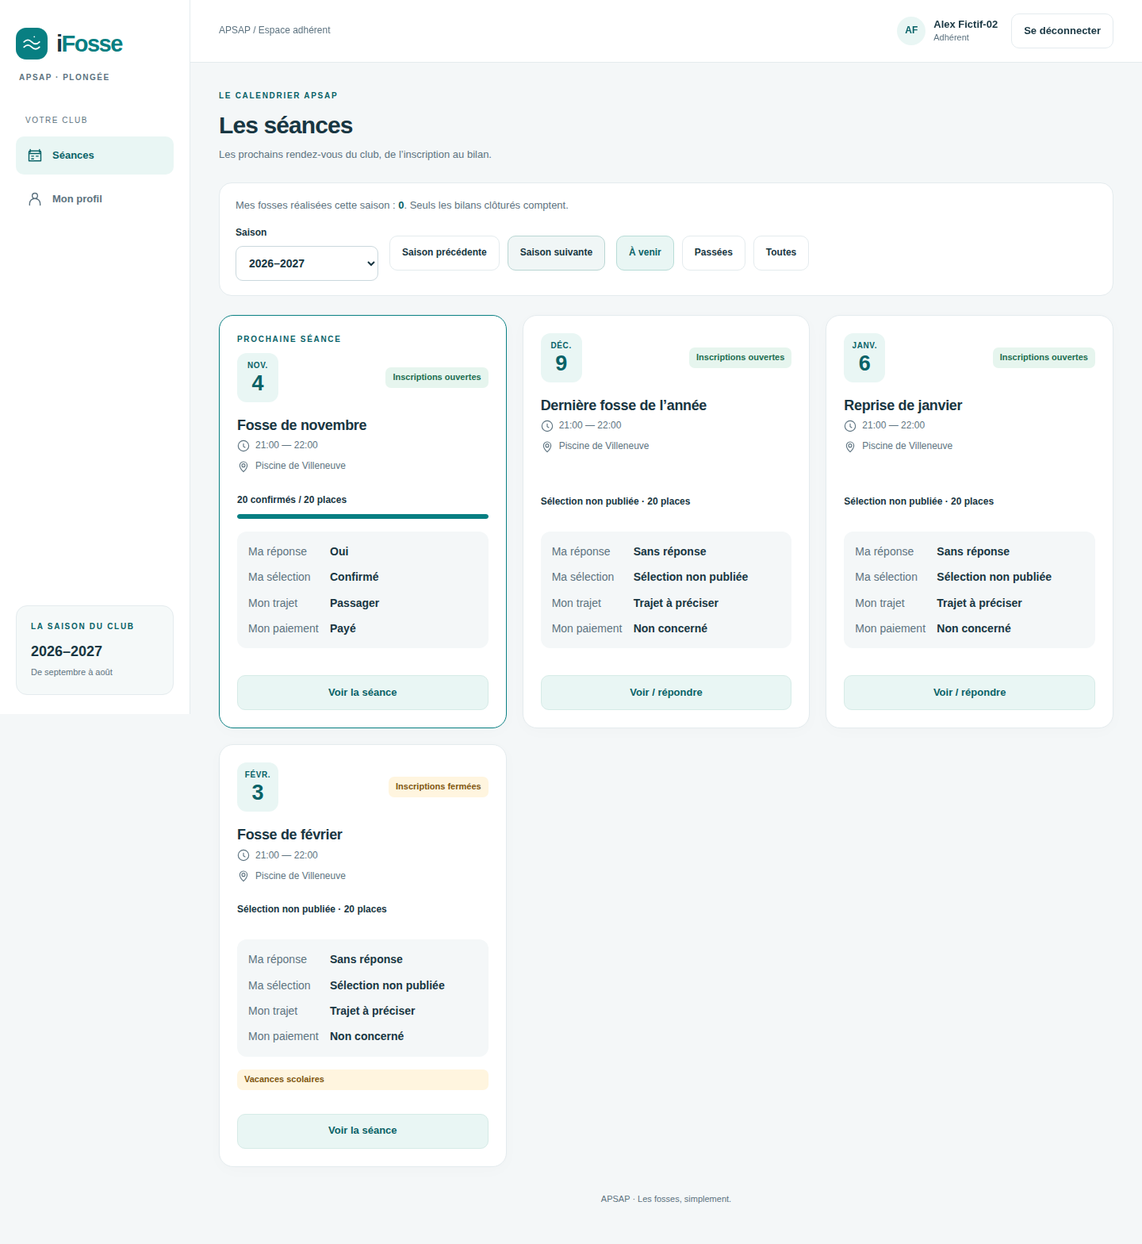
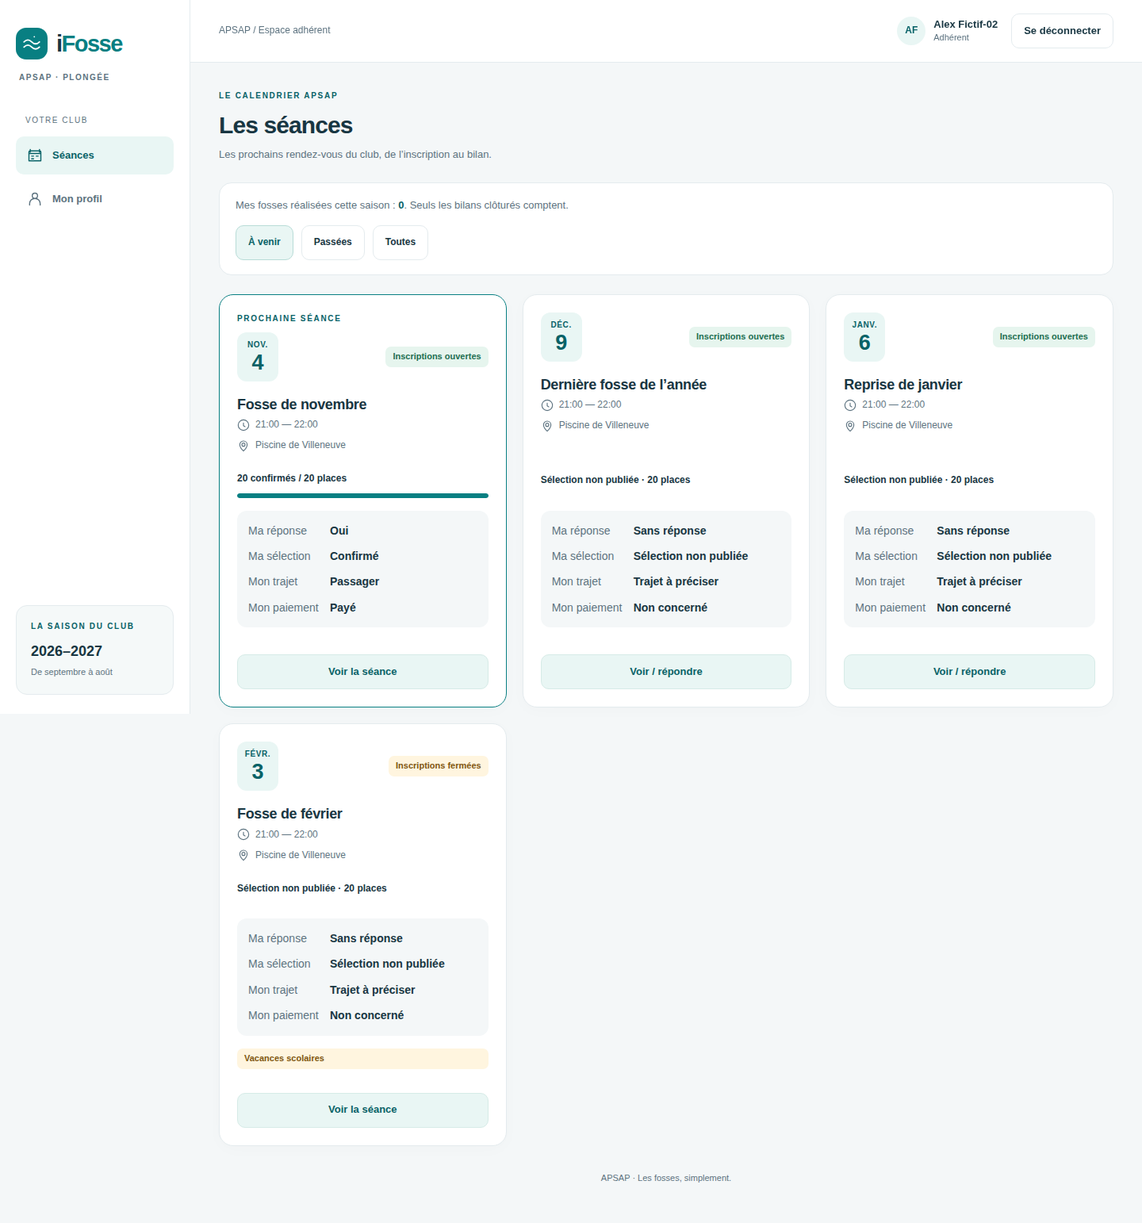
Remove season controls while preserving session history through period filters

diff --git a/src/features/sessions/Sessions.tsx b/src/features/sessions/Sessions.tsx
@@ -2,7 +2,7 @@ import { useCallback, useRef, useState } from 'react'
 import type { SupabaseClient } from '@supabase/supabase-js'
 import type { Database, Tables } from '../../lib/database.types'
 import type { Member } from '../auth/AuthGate'
-import { caciLabels, caciStatus, formatDate, seasonBounds, seasonOf, todayParis } from '../../lib/dates'
+import { caciLabels, caciStatus, formatDate, seasonOf, todayParis } from '../../lib/dates'
 import { SessionEditor } from './SessionEditor'
 import type { Session } from './SessionEditor'
 import { Selection } from '../selection/Selection'
@@ -97,7 +97,7 @@ export function SessionDetail({ client, member, session, onEdit, onBack, onChang
   </section>
 }
 export function Sessions({ client, member, refreshMember }: { client: SupabaseClient<Database>; member: Member; refreshMember?: () => Promise<void> }) {
-  const [season, setSeason] = useState(seasonOf(todayParis()))
+  const season = seasonOf(todayParis())
   const [counts, setCounts] = useState<Database['public']['Functions']['get_season_counts']['Returns']>([])
   const [filter, setFilter] = useState<CalendarFilter>('upcoming')
   const [entryTab, setEntryTab] = useState<SessionTab>('overview')
@@ -110,22 +110,25 @@ export function Sessions({ client, member, refreshMember }: { client: SupabaseCl
   const loadSequence = useRef(0)
   const load = useCallback(async () => {
     const request = ++loadSequence.current
-    const bounds = seasonBounds(season)
     try {
-      const [calendar, totals, occupancy] = await Promise.all([
-        client.from('sessions').select('*').gte('date', bounds.start).lt('date', bounds.end).order('date').order('start_time'),
-        client.rpc('get_season_counts', { p_start_year: season }),
-        client.rpc('get_session_card_summaries', { p_start_year: season }),
-      ])
-      const { data, error } = calendar
+      const calendar = await client.from('sessions').select('*').order('date').order('start_time')
       if (request !== loadSequence.current) return
-      const summary = Object.fromEntries((occupancy.data ?? []).map(row => [row.session_id, row]))
+      if (calendar.error) { setMessage('Actualisation du calendrier impossible. Les dernières données reçues sont conservées.'); return }
+      const years = [...new Set((calendar.data ?? []).map(row => seasonOf(row.date)))]
+      const [totals, ...projections] = await Promise.all([
+        client.rpc('get_season_counts', { p_start_year: season }),
+        ...years.map(year => client.rpc('get_session_card_summaries', { p_start_year: year })),
+      ])
+      if (request !== loadSequence.current) return
+      const data = calendar.data
+      const occupancy = { data: projections.flatMap(result => result.data ?? []), error: projections.find(result => result.error)?.error }
+      const summary = Object.fromEntries(occupancy.data.map(row => [row.session_id, row]))
       const personalFields = ['my_rsvp', 'my_selection_state', 'my_transport_mode', 'my_transport_provisional', 'my_payment_status'] as const
       const oldProjection = !occupancy.error && (occupancy.data ?? []).some(row => personalFields.some(field => row[field] === undefined))
       if (oldProjection || occupancy.error?.code === 'PGRST202') {
         setMessage('Le calendrier nécessite une mise à jour du serveur. Contactez l’administrateur du club. Les dernières données reçues sont conservées.'); return
       }
-      if (error || totals.error || occupancy.error || (data ?? []).some(row => !summary[row.id] || !validSummary(summary[row.id]))) {
+      if (totals.error || occupancy.error || (data ?? []).some(row => !summary[row.id] || !validSummary(summary[row.id]))) {
         setMessage('Actualisation du calendrier impossible. Les dernières données reçues sont conservées.'); return
       }
       setCounts(totals.data ?? [])
@@ -139,14 +142,10 @@ export function Sessions({ client, member, refreshMember }: { client: SupabaseCl
   const visible = calendarSessions(sessions, filter, todayParis())
   const next = nextSession(sessions, todayParis())
   async function saved(id: string | null) {
-    if (id) {
-      const result = await client.from('sessions').select('date').eq('id', id).single()
-      if (result.data) setSeason(seasonOf(result.data.date))
-    }
     await load(); setEntryTab('overview'); setSelected(id); setEditing(false)
   }
-  return <><section className="calendar-heading" hidden={editing || !!session}><PageHeading eyebrow="Le calendrier APSAP" title="Les séances" actions={member.role !== 'member' && <button className="primary" onClick={() => { setSelected(null); setEditing(true) }}>Nouvelle séance</button>}><p>Les prochains rendez-vous du club, de l’inscription au bilan.</p></PageHeading><div className="calendar-tools"><p>Mes fosses réalisées cette saison : <strong>{loadedSeason === season ? counts.find(row => row.member_id === member.id)?.completed_count ?? 0 : '…'}</strong>. Seuls les bilans clôturés comptent.</p><label>Saison<select value={season} onChange={event => { setSeason(Number(event.target.value)); setSelected(null); setEditing(false) }}>{Array.from(new Set([season, seasonOf(todayParis()) - 1, seasonOf(todayParis()), ...sessions.map(item => seasonOf(item.date))])).sort((a, b) => b - a).map(year => <option key={year} value={year}>{year}–{year + 1}</option>)}</select></label><div className="actions"><button onClick={() => { setSeason(season - 1); setSelected(null); setEditing(false) }}>Saison précédente</button><button onClick={() => { setSeason(season + 1); setSelected(null); setEditing(false) }}>Saison suivante</button></div><div className="actions mt" role="group" aria-label="Période des séances">{([['upcoming', 'À venir'], ['past', 'Passées'], ['all', 'Toutes']] as const).map(([value, label]) => <button key={value} className="secondary" aria-pressed={filter === value} onClick={() => setFilter(value)}>{label}</button>)}</div>{message && <div role="alert"><p>{message}</p><button className="secondary" onClick={() => void load()}>Réessayer</button></div>}</div></section>
-    {editing && selected && !session ? <section className="card"><p>Cette séance n’est plus disponible dans le calendrier.</p><button onClick={() => { setSelected(null); setEditing(false) }}>Retour au calendrier</button></section> : editing ? <SessionEditor key={selected ?? 'new'} client={client} session={session} onSaved={saved} onCancel={() => setEditing(false)} /> : session ? <SessionDetail key={session.id} client={client} member={member} session={session} onEdit={() => setEditing(true)} onBack={() => { setSelected(null); window.scrollTo({ top: 0 }) }} onChanged={load} refreshMember={refreshMember} initialTab={entryTab} /> : loadedSeason !== season ? <div className="empty-state" role="status">{message ? 'Calendrier indisponible. Réessayez pour charger cette saison.' : 'Chargement du calendrier…'}</div> : <div className="session-grid">{visible.map(item => {
+  return <><section className="calendar-heading" hidden={editing || !!session}><PageHeading eyebrow="Le calendrier APSAP" title="Les séances" actions={member.role !== 'member' && <button className="primary" onClick={() => { setSelected(null); setEditing(true) }}>Nouvelle séance</button>}><p>Les prochains rendez-vous du club, de l’inscription au bilan.</p></PageHeading><div className="calendar-tools"><p>Mes fosses réalisées cette saison : <strong>{loadedSeason === season ? counts.find(row => row.member_id === member.id)?.completed_count ?? 0 : '…'}</strong>. Seuls les bilans clôturés comptent.</p><div className="actions mt" role="group" aria-label="Période des séances">{([['upcoming', 'À venir'], ['past', 'Passées'], ['all', 'Toutes']] as const).map(([value, label]) => <button key={value} className="secondary" aria-pressed={filter === value} onClick={() => setFilter(value)}>{label}</button>)}</div>{message && <div role="alert"><p>{message}</p><button className="secondary" onClick={() => void load()}>Réessayer</button></div>}</div></section>
+    {editing && selected && !session ? <section className="card"><p>Cette séance n’est plus disponible dans le calendrier.</p><button onClick={() => { setSelected(null); setEditing(false) }}>Retour au calendrier</button></section> : editing ? <SessionEditor key={selected ?? 'new'} client={client} session={session} onSaved={saved} onCancel={() => setEditing(false)} /> : session ? <SessionDetail key={session.id} client={client} member={member} session={session} onEdit={() => setEditing(true)} onBack={() => { setSelected(null); window.scrollTo({ top: 0 }) }} onChanged={load} refreshMember={refreshMember} initialTab={entryTab} /> : loadedSeason !== season ? <div className="empty-state" role="status">{message ? 'Calendrier indisponible. Réessayez pour charger les séances.' : 'Chargement du calendrier…'}</div> : <div className="session-grid">{visible.map(item => {
       const summary = summaries[item.id]
       const action = calendarAction(item, summary)
       return <article className={`card session-card${item.id === next ? ' next-session' : ''}`} key={item.id}>
@@ -158,6 +157,6 @@ export function Sessions({ client, member, refreshMember }: { client: SupabaseCl
         {item.school_holiday && <p className="badge">Vacances scolaires</p>}
         <button className="session-open" onClick={() => { setEntryTab(action.tab); setSelected(item.id); window.scrollTo({ top: 0 }) }} aria-label={`${action.label} · séance du ${formatDate(item.date)}`}>{action.label}</button>
       </article>
-    })}{!visible.length && <p className="empty-state">{filter === 'upcoming' ? 'Aucune séance à venir dans cette saison.' : filter === 'past' ? 'Aucune séance passée dans cette saison.' : 'Aucune séance dans cette saison.'}</p>}</div>}
+    })}{!visible.length && <p className="empty-state">{filter === 'upcoming' ? 'Aucune séance à venir.' : filter === 'past' ? 'Aucune séance passée.' : 'Aucune séance.'}</p>}</div>}
   </>
 }

diff --git a/src/features/sessions/Sessions.test.tsx b/src/features/sessions/Sessions.test.tsx
@@ -5,17 +5,17 @@ import type { Database } from '../../lib/database.types'
 import type { Member } from '../auth/AuthGate'
 import type { Session } from './SessionEditor'
 import { Sessions } from './Sessions'
-import { formatDate, todayParis } from '../../lib/dates'
+import { formatDate, seasonOf, todayParis } from '../../lib/dates'
 import type { CardSummary } from './PublishedOccupancy'
 afterEach(cleanup)
 const member = { id: 'self', role: 'member' } as Member
 const sessions = Array.from({ length: 20 }, (_, index) => ({ id: `s${index}`, date: todayParis(), start_time: '20:00', end_time: '21:00', title: `Séance ${index}`, status: 'open', registration_open: true, capacity: 20 })) as Session[]
 const summaries: CardSummary[] = sessions.map(row => ({ session_id: row.id, capacity: 20, confirmed_count: 20, publication_version: 1, my_rsvp: 'yes', my_selection_state: 'selected', my_transport_mode: 'own', my_transport_provisional: false, my_payment_status: 'paid' }))
-function setup(initialFailure = false, cards = summaries, missingRpc = false) {
+function setup(initialFailure = false, cards = summaries, missingRpc = false, rows = sessions) {
   let fail = initialFailure
   let oldSchema = false
   const rpc = vi.fn(async (name: string) => ({ data: name === 'get_season_counts' ? [{ member_id: 'self', completed_count: 3 }] : oldSchema ? cards.map(row => ({ ...row, my_rsvp: undefined })) : cards, error: missingRpc && name === 'get_session_card_summaries' ? { code: 'PGRST202', message: 'not found' } : fail ? { message: 'offline' } : null }))
-  const query = { select: () => query, gte: () => query, lt: () => query, order: (field: string) => field === 'start_time' ? Promise.resolve({ data: sessions, error: null }) : query }
+  const query = { select: () => query, order: (field: string) => field === 'start_time' ? Promise.resolve({ data: rows, error: null }) : query }
   const from = vi.fn(() => query)
   const client = { from, rpc } as unknown as SupabaseClient<Database>
   render(<Sessions client={client} member={member} />)
@@ -34,7 +34,7 @@ it('loads twenty personal cards in one batched request, highlights once and defa
   expect(screen.getByRole('button', { name: 'À venir' }).getAttribute('aria-pressed')).toBe('true')
   expect(screen.queryByText('Vous pouvez encore répondre Oui')).toBeNull()
   fireEvent.click(screen.getByRole('button', { name: 'Passées' }))
-  expect(screen.getByText('Aucune séance passée dans cette saison.')).toBeTruthy()
+  expect(screen.getByText('Aucune séance passée.')).toBeTruthy()
   expect(screen.queryByText('Prochaine séance')).toBeNull()
   fireEvent.click(screen.getByRole('button', { name: 'Toutes' }))
   expect(screen.getAllByLabelText('Mes statuts pour cette séance')).toHaveLength(20)
@@ -59,20 +59,36 @@ it('does not replace a valid snapshot with an outdated database projection', asy
   expect(screen.getByRole('alert').textContent).toContain('mise à jour du serveur')
 })
 
-it('never invents a personal status on initial failure or displays an old season as the new one', async () => {
+it('never invents a personal status or season counter on initial failure', async () => {
   setup(true)
   await waitFor(() => expect(screen.getByRole('alert')).toBeTruthy())
   expect(screen.queryByText('Sans réponse')).toBeNull()
   expect(screen.queryByText('Payé')).toBeNull()
   expect(screen.getByText(/Mes fosses réalisées/).textContent).toContain('…')
 })
-it('hides old season cards and counters when loading another season fails', async () => {
-  const app = setup()
+it('removes all season controls while keeping period filters and the current-season counter', async () => {
+  setup()
   await waitFor(() => expect(screen.getAllByText('Payé')).toHaveLength(20))
-  app.fail(); fireEvent.click(screen.getByRole('button', { name: 'Saison suivante' }))
-  await waitFor(() => expect(screen.getByRole('alert')).toBeTruthy())
-  expect(screen.queryByText('Payé')).toBeNull()
-  expect(screen.getByText(/Mes fosses réalisées/).textContent).toContain('…')
+  expect(screen.queryByRole('combobox', { name: 'Saison' })).toBeNull()
+  expect(screen.queryByRole('button', { name: 'Saison précédente' })).toBeNull()
+  expect(screen.queryByRole('button', { name: 'Saison suivante' })).toBeNull()
+  expect(screen.getByText(/Mes fosses réalisées/).textContent).toContain('3.')
+})
+it('keeps historical and future seasons accessible through period filters with one projection per season', async () => {
+  const year = Number(todayParis().slice(0, 4))
+  const rows = [{ ...sessions[0], date: `${year - 2}-10-01` }, { ...sessions[1], date: `${year + 2}-10-01` }]
+  const app = setup(false, summaries.slice(0, 2), false, rows)
+  await waitFor(() => expect(screen.getAllByLabelText('Mes statuts pour cette séance')).toHaveLength(1))
+  expect(screen.getByRole('heading', { name: 'Séance 1' })).toBeTruthy()
+  expect(app.rpc).toHaveBeenCalledWith('get_session_card_summaries', { p_start_year: year - 2 })
+  expect(app.rpc).toHaveBeenCalledWith('get_session_card_summaries', { p_start_year: year + 2 })
+  expect(app.rpc).toHaveBeenCalledTimes(3)
+  expect(app.rpc).toHaveBeenCalledWith('get_season_counts', { p_start_year: seasonOf(todayParis()) })
+  fireEvent.click(screen.getByRole('button', { name: 'Passées' }))
+  expect(screen.getByRole('heading', { name: 'Séance 0' })).toBeTruthy()
+  expect(screen.queryByRole('heading', { name: 'Séance 1' })).toBeNull()
+  fireEvent.click(screen.getByRole('button', { name: 'Toutes' }))
+  expect(screen.getAllByLabelText('Mes statuts pour cette séance')).toHaveLength(2)
 })
 
 it.each(['unanswered', 'maybe', 'no'] as const)('keeps the full-selection invitation relevant for response %s', async rsvp => {
@@ -95,4 +111,11 @@ it('identifies an unavailable calendar RPC without inventing statuses', async ()
   await waitFor(() => expect(screen.getByRole('alert').textContent).toContain('mise à jour du serveur'))
   expect(screen.queryByLabelText('Mes statuts pour cette séance')).toBeNull()
   expect(screen.queryByText('Payé')).toBeNull()
+})
+
+it('loads the current-season counter without card requests when the calendar is empty', async () => {
+  const app = setup(false, [], false, [])
+  await screen.findByText('Aucune séance à venir.')
+  expect(app.rpc).toHaveBeenCalledExactlyOnceWith('get_season_counts', { p_start_year: seasonOf(todayParis()) })
+  expect(screen.getByText(/Mes fosses réalisées/).textContent).toContain('3.')
 })

diff --git a/e2e/visual-acceptance.spec.ts b/e2e/visual-acceptance.spec.ts
@@ -76,6 +76,9 @@ test('realistic club volumes retain desktop/mobile layout, keyboard tabs and rol
     await expect(memberPage.locator('.personal-status')).toHaveCount(4)
     await expect(memberPage.getByText('Prochaine séance', { exact: true })).toHaveCount(1)
     await capture(memberPage, 'desktop-member-sessions')
+    await expect(memberPage.getByRole('combobox', { name: 'Saison', exact: true })).toHaveCount(0)
+    await expect(memberPage.getByRole('button', { name: 'Saison précédente', exact: true })).toHaveCount(0)
+    await expect(memberPage.getByRole('button', { name: 'Saison suivante', exact: true })).toHaveCount(0)
     await capture(memberPage, 'desktop-personal-calendar-full', true)
     await expect(page.locator('.session-card')).toHaveCount(4, { timeout: 12000 })
     await page.locator('.session-card').filter({ hasText: 'Fosse de novembre' }).getByRole('button').click()
@@ -107,6 +110,7 @@ test('realistic club volumes retain desktop/mobile layout, keyboard tabs and rol
     await capture(page, 'desktop-admin-directory')
     await memberPage.setViewportSize({ width: 390, height: 844 })
     await capture(memberPage, 'phone-member-sessions')
+    await expect(memberPage.getByRole('combobox', { name: 'Saison', exact: true })).toHaveCount(0)
     await capture(memberPage, 'phone-personal-calendar-full', true)
     await memberPage.locator('.session-card').filter({ hasText: 'Fosse de novembre' }).getByRole('button').click()
     await expect(memberPage.getByRole('tab', { name: 'Ma participation', exact: true })).toHaveAttribute('aria-selected', 'true')

diff --git a/e2e/attendance.spec.ts b/e2e/attendance.spec.ts
@@ -53,7 +53,6 @@ test('admin validates actual attendance and reopens for correction; member sees 
       await openConfirmation(device, await requestMagicLink(device, fixture))
       await device.getByRole('button', { name: 'Se connecter', exact: true }).click()
       await expect(device.getByRole('heading', { name: 'Les séances', exact: true })).toBeVisible()
-      await device.getByRole('combobox', { name: 'Saison', exact: true }).selectOption(String(pastSeason))
       await device.getByRole('button', { name: 'Passées', exact: true }).click()
     }
     client = await fixtureClient(admin)
@@ -85,7 +84,7 @@ test('admin validates actual attendance and reopens for correction; member sees 
     await page.getByRole('button', { name: 'Clôturer le bilan', exact: true }).click()
     await page.getByRole('button', { name: 'Confirmer la clôture', exact: true }).click()
     await expect(page.getByRole('button', { name: 'Rouvrir le bilan', exact: true })).toBeVisible()
-    await expectCalendarCount(1)
+    await expectCalendarCount(pastSeason === seasonOf(todayParis()) ? 1 : 0)
     await expect(other.locator('.attendance').getByText('A plongé', { exact: true })).toBeVisible({ timeout: 12000 })
     await expect(other.getByRole('combobox', { name: /Présence de/ })).toHaveCount(0)
     expect((await memberClient.rpc('set_attendance', { p_session_id: id, p_member_id: member.memberId, p_status: 'dived' })).error?.code).toBe('42501')

diff --git a/e2e/rollout.spec.ts b/e2e/rollout.spec.ts
@@ -1,6 +1,6 @@
 import { expect, test } from '@playwright/test'
 import { createMemberFixture, fixtureClient, makeFixtureAdmin, openConfirmation, removeMemberFixture, requestMagicLink } from './helpers/local-supabase.js'
-import { formatDate, seasonOf, todayParis } from '../src/lib/dates.js'
+import { formatDate, todayParis } from '../src/lib/dates.js'
 
 test('fictitious organizer completes the session lifecycle through a phone viewport', async ({ page, browser }) => {
   test.setTimeout(90000)
@@ -16,7 +16,6 @@ test('fictitious organizer completes the session lifecycle through a phone viewp
       await openConfirmation(device, await requestMagicLink(device, fixture))
       await device.getByRole('button', { name: 'Se connecter', exact: true }).click()
       await expect(device.getByRole('heading', { name: 'Les séances', exact: true })).toBeVisible()
-      await device.getByRole('combobox', { name: 'Saison', exact: true }).selectOption(String(seasonOf(past)))
       await device.getByRole('button', { name: 'Passées', exact: true }).click()
     }
     client = await fixtureClient(admin)

diff --git a/e2e/calendar-personal.spec.ts b/e2e/calendar-personal.spec.ts
@@ -64,7 +64,6 @@ test('personal calendar follows publication and transport across devices without
     await expect(card.getByText('Vous pouvez encore répondre Oui', { exact: true })).toBeVisible()
     await other.getByRole('button', { name: 'Passées', exact: true }).click()
     // The previous date may belong to the preceding season on September 1.
-    if (today.slice(5) === '09-01') await other.getByRole('button', { name: 'Saison précédente', exact: true }).click()
     await expect(other.getByText('Calendrier fictif passé non clôturé', { exact: true })).toBeVisible()
     expect(await other.evaluate(() => document.documentElement.scrollWidth > innerWidth)).toBe(false)
   } finally {

diff --git a/docs/reviews/issue-48/README.md b/docs/reviews/issue-48/README.md
@@ -17,7 +17,7 @@ Inspection : une seule prochaine séance, une seule date visible par carte
 (tuile jour/mois avec date complète accessible et au survol), quatre statuts personnels lisibles,
 occupation publiée, rappel des inscriptions possibles malgré la sélection pleine seulement sans
 réponse Oui préalable (absent sur ces captures),
-filtres séparés des saisons et action principale unique. La suite vérifie aussi
+filtres À venir / Passées / Toutes sans sélecteur ni commandes de saison, compteur de saison en cours et action principale unique. La suite vérifie aussi
 l’absence de débordement horizontal et les contrôles d’au moins 44 px ; les tests
 existants de focus et navigation clavier restent exécutés.
 
@@ -28,7 +28,7 @@ les republications, le paiement personnel et la séance passée non clôturée.
 Ces captures ne constituent pas une validation du pilote organisateur (#18),
 de l’Auth/SMTP hébergé ou de la production.
 
-Revalidation de la restauration : typecheck/lint/build et 138 tests unitaires,
+Revalidation de la restauration : typecheck/lint/build et 140 tests unitaires,
 560 assertions pgTAP, contrôle des types après reset isolé ; les deux scénarios
 navigateur calendrier/revue visuelle passent sur le schéma migré. Une base locale
 ancienne a été inspectée en lecture seule : seulement quatre champs d’occupation.

diff --git a/docs/operator-guide.md b/docs/operator-guide.md
@@ -79,9 +79,8 @@ Netlify preview magic-link setup: use the exact staging Site URL and narrow `/au
 
 Le calendrier démarre sur **À venir** (aujourd’hui inclus, date de Paris).
 **Passées** donne aussi accès aux séances dont le bilan est encore ouvert ;
-**Toutes** affiche toute la saison choisie. Les commandes de saisons adjacentes
-permettent de retrouver les anciens bilans. **Prochaine séance** met en évidence
-la première séance future non clôturée, sans créer une seconde carte.
+**Toutes** affiche toutes les séances. Le sélecteur et les boutons de saison ont été retirés : **Passées** permet de retrouver les anciens bilans, toutes saisons confondues. Le compteur reste celui de la saison en cours. **Prochaine séance** met en évidence
+la première séance à venir non clôturée, sans créer une seconde carte.
 
 Chaque carte distingue **Ma réponse / Ma sélection / Mon trajet / Mon paiement**.
 La sélection et l’occupation viennent exclusivement de la publication effective.

diff --git a/docs/specs.md b/docs/specs.md
@@ -383,9 +383,9 @@ est alors « Non concerné ». Le brouillon administrateur ne change pas ces car
 
 Le filtre initial est « À venir » : dates d’aujourd’hui et ultérieures à Paris.
 « Passées » contient toutes les dates strictement antérieures, bilan clôturé ou
-non. « Toutes » conserve l’ordre chronologique de la saison. La première séance
+non. « Toutes » conserve l’ordre chronologique de toutes les saisons. La première séance
 à venir dont le bilan n’est pas clôturé est mise en évidence une seule fois.
-Le sélecteur et les commandes de saisons adjacentes restent disponibles ; les
+À la demande de la recette staging, le sélecteur de saison et les commandes précédente/suivante sont retirés. Les filtres couvrent toutes les saisons ; les
 compteurs restent basés sur les présences et les bilans clôturés de septembre à août.
 
 L’action principale est « Voir / répondre » sans réponse si les inscriptions
